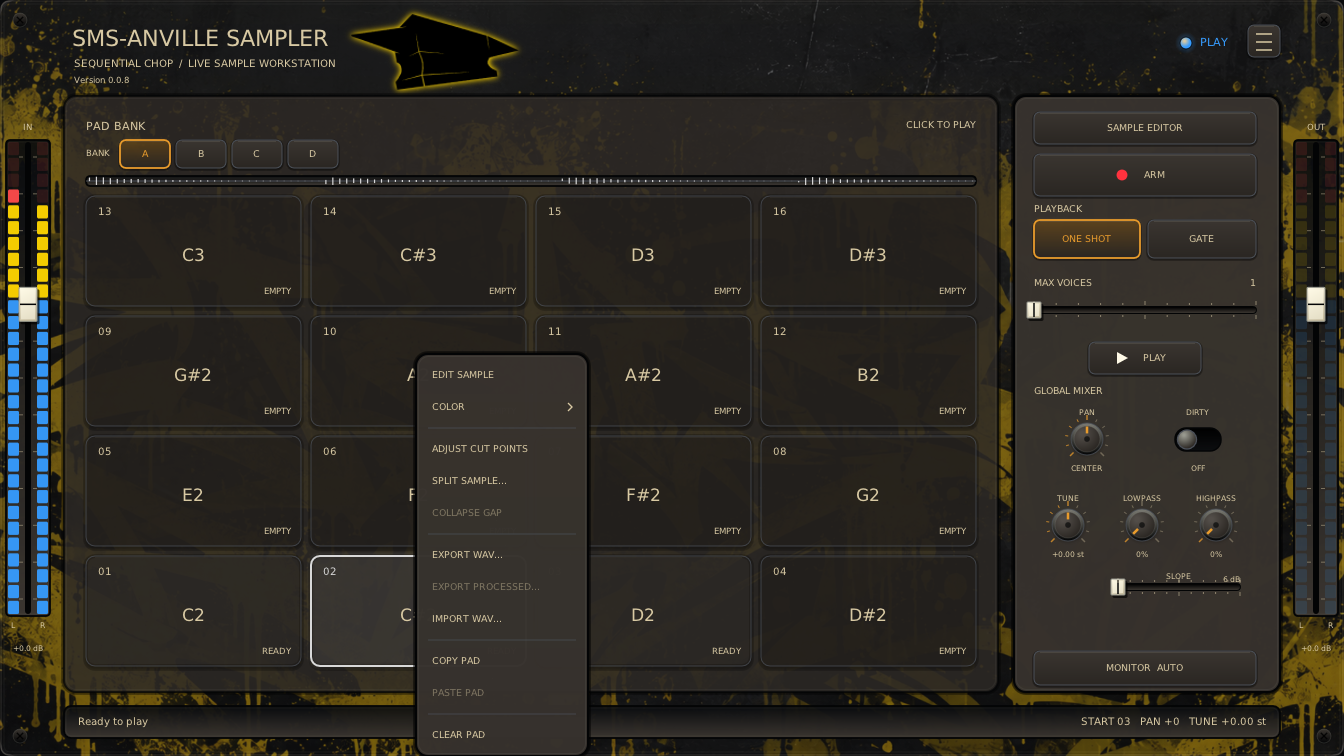
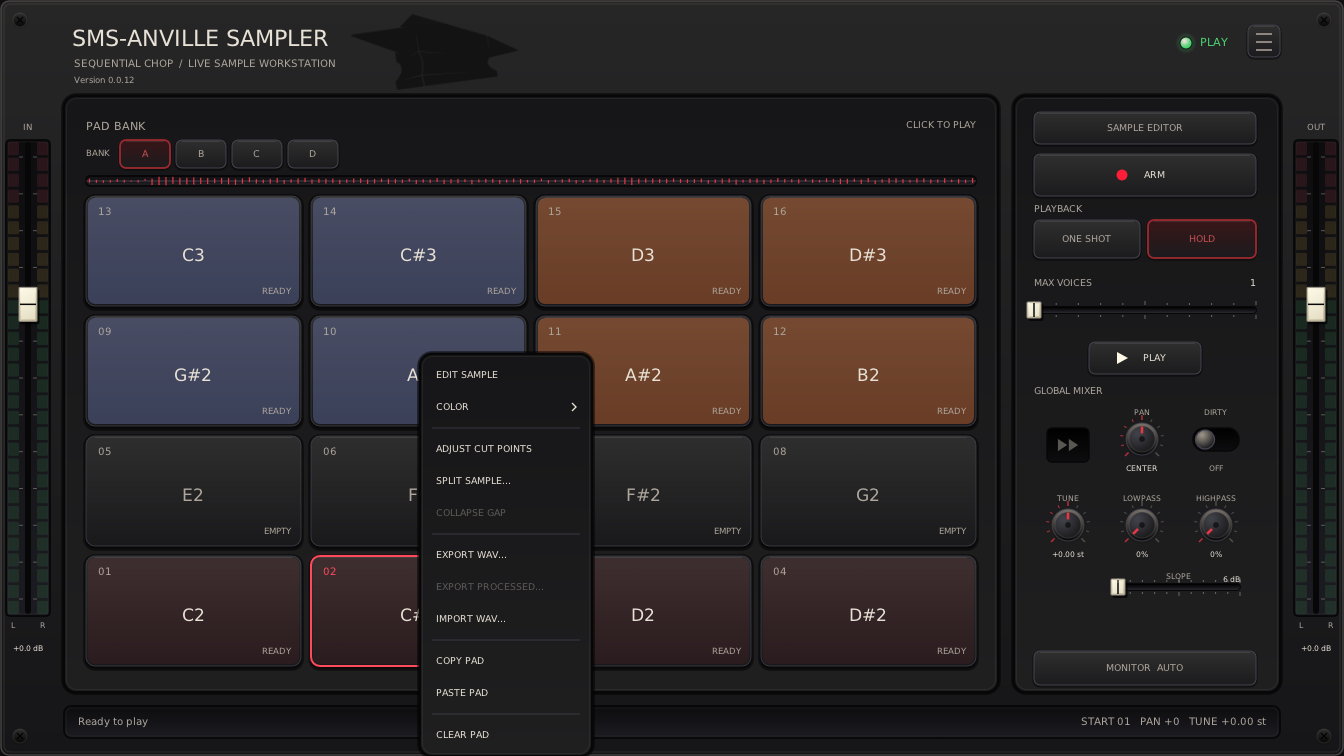
docs: refresh plugin screenshots and bump version to 0.0.12

diff --git a/SMS-AnvilleSampler/README.md b/SMS-AnvilleSampler/README.md
@@ -2,146 +2,149 @@
 
 _A live stereo chopping sampler for Linux._
 
-> Special thanks to **Manolo Anville** ([@ManoloAnville](https://github.com/ManoloAnville)) for collaboration.
+> Thanks to **Manolo Anville** ([@ManoloAnville](https://github.com/ManoloAnville)) for collaboration.
 
-![SMS-Anville Sampler interface](Docs/SMS-AnvilleSampler-v0.0.8.png)
+| Default Skin | Finnish Dream | Anville Graffiti |
+| --- | --- | --- |
+| [<img src="Docs/main-view.png" width="672" alt="Default Skin">](Docs/main-view.png) | [<img src="Docs/main-view-finnish-dream.png" width="224" alt="Finnish Dream">](Docs/main-view-finnish-dream.png) | [<img src="Docs/main-view-anville-graffiti.png" width="224" alt="Anville Graffiti">](Docs/main-view-anville-graffiti.png) |
 
+Captures: v0.0.12.
 
-**VST3 is preferred:** faster GUI loading and more human testing. LV2 is mostly
+**VST3 is preferred** for faster GUI loading and human testing. LV2 is mostly
 AI-tested; CLAP is untested.
 
 Tested: **REAPER**, **Ardour**, **Carla**.
 
-- Control with any MIDI controller.
-- Capture/chop input or load samples into pads.
+- MIDI control; capture/chop input or load samples into pads.
 - Waveform editing and splitting.
-- Pad/global mixer/FX: per-pad Forward/Reverse, Gain, Pan, Dirty, Tune (Varispeed), and Lowpass/Highpass with 6/12/24 dB slopes; independent monitor/playback levels.
-- Sample specific amplitude envelope; Attack, Decay, Sustain, Release.
-- Layouts: 2x4, 3x4, or 4x4 pads; four shared/unique MIDI banks; pad colors.
-- VST3 presets store samples/settings across supported DAWs: Ardour presets also
-  load in REAPER and vice versa. Carla does not support them.
-- Skins? **Yes!** - Create your own!
+- Pad/global mixer and FX: per-pad Forward/Reverse, Gain, Pan, Dirty, Tune (Varispeed), Lowpass/Highpass (6/12/24 dB/octave), independent monitor/playback levels.
+- Per-sample ADSR.
+- 2x4, 3x4, or 4x4 pads; four shared/unique MIDI banks; pad colors.
+- VST3 presets transfer samples/settings between Ardour and REAPER; Carla lacks support.
+- Create [custom skins](Docs/SKINS.md).
 
-> Versions 1.0.0+ are not backwards compatible with alpha releases (v0.0.1-v0.9.9). Alpha releases have been removed from GitHub releases to avoid confusion.
+> v1.0.0+ is incompatible with alpha sessions (v0.0.1–v0.9.9). Alpha releases were removed from GitHub to avoid confusion.
 
 ## Basic Usage
 
-1. Insert **SMS-Anville Sampler** as an instrument on a REAPER track receiving stereo audio/MIDI, or an Ardour MIDI track with stereo input sidechain for capture. Rescan after upgrading if listed as FX.
+1. Insert as an instrument on a REAPER track receiving stereo audio/MIDI, or an
+   Ardour MIDI track with stereo input sidechain for capture. Rescan after
+   upgrades if listed as FX.
 
-2. Press **ARM** (red record circle) to arm; release it for PLAY.
-   Default indicators: red ARMED, green PLAY. Skins can recolor them.
-   The first empty visible pad is selected; click another while idle.
+2. Press **ARM** (red record circle) to arm; release for PLAY. Indicators are red
+   ARMED and green PLAY by default; skins can recolor them. The first empty visible pad is
+   selected; click another while idle.
 
-3. **The first MIDI note-on or Space press starts the slice.** Later taps close
+3. **Any MIDI note-on or Space press starts the first slice.** Later taps close
    the current slice and continue at the next pad.
-    > NOTE: **ANY** MIDI note-on (i.e. any pad of your controller) starts and chops.
 
 4. **FINALIZE** or releasing **ARM** keeps the open slice. **UNDO** discards the
-   open/last slice; **CLEAR** clears all banks after a confirmation click.
+   open/last slice; **CLEAR** clears banks after confirmation.
 
-5. Right-click a pad to edit, split, or adjust cuts with neighbours.
+5. Right-click a pad to edit, split, or adjust neighbouring cuts.
 
 ![ARM capture view](Docs/arm-view.png)
 
 ![Context menu](Docs/context-menu.png)
 
 
-Hamburger: **PAD LAYOUT**, **BANK MODE**, **SKIN**, then **LINKS**. **Online Help** opens this
-guide at the release tag or development `main`. **Report Issue** opens the
-project's issues page.
+Hamburger: **PAD LAYOUT**, **BANK MODE**, **SKIN**, **LINKS**. Online Help opens this
+guide; Report Issue opens the project issues.
 
-Select **All Banks** (unique notes, default) for gapless notes or **Selected Bank**
-(shared notes) to reuse controller notes in the active bank. All Banks limits
-the base note to 64.
+**All Banks** (default) uses unique notes for gapless play; **Selected Bank** shares
+notes within the active bank. All Banks base note is limited to 64.
 
-Layouts match your controller and preserve samples.
+Layouts preserve samples.
 
 ![Hamburger menu](Docs/hamburger-menu.png)
 
 **SAMPLE EDITOR** opens waveform, ADSR, and pad mixing; **MAIN VIEW** returns. See the
-[mixing guide](Docs/MIXING.md). The selection button cycles through **Play on
-Select**, **Loop on Select**, and Off (unpressed **Play on Select**). Play auditions
-the selected sample once; Loop repeats its Start/End region after the mouse is
-released, repeating ADSR each pass with live edits. Editor modes are independent
-of the main playback mode.
-Changing selection replaces the audition; turning it off or leaving the editor
-stops it. **Play/Stop** plays the selected occupied pad when idle or immediately cuts all
-playing samples. With Loop on Select enabled, editor Play/Stop and Space also start a loop.
-Play/Stop shows triangle/square icons. ARM hides the global mixer.
-The edge faders remain visible: **IN** controls monitoring, **OUT** controls
-samples/previews.
+[mixing guide](Docs/MIXING.md). The selection button cycles **Play on Select**,
+**Loop on Select**, and Off (unpressed **Play on Select**). Play auditions once; Loop repeats Start/End after
+release, restarting ADSR each pass with live edits. These modes are independent
+of main playback. Selection changes replace auditions; disabling or leaving stops
+auditioning. **Play/Stop** auditions the selected occupied pad when idle or cuts all
+samples. With Loop on Select, it and Space loop. ARM hides the global mixer;
+edge faders stay visible. **IN** monitors and **OUT** controls samples and previews.
 
-**Ctrl + wheel** zooms the waveform; **Shift + wheel** scrolls. The left zoom
-control and window box below provide drag alternatives. Changing pads resets
-the view.
+**Ctrl + wheel** zooms; **Shift + wheel** scrolls. The left zoom control and
+window box provide drag alternatives. Changing pads resets the view.
 
-![Sample Editor with a shaped amplitude envelope](Docs/sample-editor.png)
+| Default Skin | Finnish Dream | Anville Graffiti |
+| --- | --- | --- |
+| [<img src="Docs/sample-editor.png" width="672" alt="Default Skin">](Docs/sample-editor.png) | [<img src="Docs/sample-editor-finnish-dream.png" width="224" alt="Finnish Dream">](Docs/sample-editor-finnish-dream.png) | [<img src="Docs/sample-editor-anville-graffiti.png" width="224" alt="Anville Graffiti">](Docs/sample-editor-anville-graffiti.png) |
 
 Right-click a middle pad for **Adjust cut points**. See the
 [cut-point guide](Docs/CHOP-EDITOR.md).
 
-![Adjust Cut Points view with three slices](Docs/adjust-cut-points.png)
+| Default Skin | Finnish Dream | Anville Graffiti |
+| --- | --- | --- |
+| [<img src="Docs/adjust-cut-points.png" width="672" alt="Default Skin">](Docs/adjust-cut-points.png) | [<img src="Docs/adjust-cut-points-finnish-dream.png" width="224" alt="Finnish Dream">](Docs/adjust-cut-points-finnish-dream.png) | [<img src="Docs/adjust-cut-points-anville-graffiti.png" width="224" alt="Anville Graffiti">](Docs/adjust-cut-points-anville-graffiti.png) |
 
 Right-click for **Split Sample**; following samples shift right without being overwritten.
 
-![Split Sample view with two proposed slices](Docs/split-sample.png)
+| Default Skin | Finnish Dream | Anville Graffiti |
+| --- | --- | --- |
+| [<img src="Docs/split-sample.png" width="672" alt="Default Skin">](Docs/split-sample.png) | [<img src="Docs/split-sample-finnish-dream.png" width="224" alt="Finnish Dream">](Docs/split-sample-finnish-dream.png) | [<img src="Docs/split-sample-anville-graffiti.png" width="224" alt="Anville Graffiti">](Docs/split-sample-anville-graffiti.png) |
 
 ### General Controls
 
 - Drag/wheel knobs and sliders.
-- **Shift** gives 10× knob precision; **Ctrl** steps e.g. Gain/Volume 1 dB, Pan 10%, and Tune one semitone.
-- Double-click values for exact entry.
-- Double/middle-click knobs, ADSR sliders, or edge faders to reset.
-- The wheel also adjusts ADSR, Start/End, and cut points.
-- Click the plug-in for keyboard focus. **Space** plays/stops in
-  PLAY and Sample Editor, or starts/chops capture in ARM. Holding Space does not
-  repeat. Menus, file dialogs, numeric entry, and cut-point views suppress it.
-  The plug-in consumes Space when delivered; a DAW that intercepts keyboard
-  shortcuts first may require its option to send keys to the plug-in.
+- **Shift** gives 10× knob precision; **Ctrl** steps Gain/Volume 1 dB, Pan 10%, Tune one semitone.
+- Double-click values to enter exact values; double/middle-click knobs, ADSR, or
+  edge faders to reset.
+- The wheel adjusts ADSR, Start/End, and cuts.
+- Click the plug-in for keyboard focus. **Space** plays/stops in PLAY/editor or
+  starts/chops ARM capture; holding does not repeat. Menus, dialogs, numeric entry,
+  and cut-point views suppress it. The plug-in consumes delivered Space; if the
+  DAW intercepts it first, enable sending keys to the plug-in.
+
+## Other controls
+
+- Sample memory: ~8 minutes.
+
+- Monitor cycles Off, On, and Auto (on when ARMed).
+
+- Max Voices limits simultaneous pads; a new trigger stops the oldest at
+capacity. Set it to one for monophonic playback.
+
+- **Hold** loops Start/End while its MIDI note or mouse press is held. Release
+starts the ADSR fade; looping continues until it ends. ARM stops Hold; **One Shot**
+ignores note-off.
+
+- Pre-roll moves boundaries earlier for late taps; Fixed mode records one fixed
+length slice per note-on.
+
+- New sessions start with Auto monitoring, one voice, Play on Select, and
+6 dB/octave filter slopes.
+
+- Pad right-click: copy, paste, import, export, clear, split, collapse gaps.
+  Split/Collapse Gap stay within the active bank; copies can cross banks.
+
+- Right-click a pad for **Color**; tint persists when empty.
+
+- See [WAV files](Docs/WAV-FILES.md) for import formats and Linux requirements.
+
+- DAW projects store all banks as 16-bit stereo.
+
+- Stereo LEDs show raw input/final output.
+
+## Skins
 
 Default uses no skin. **Hamburger → Skin** offers bundled **Anville Graffiti**
 and **Finnish Dream**, remembering your choice. See [skins](Docs/SKINS.md).
 
-## Other controls
-
-- Sample memory: about eight minutes.
-
-- Monitor cycles through Off, On, and Auto; Auto is On when ARMed and Off otherwise.
-
-- Max Voices limits simultaneous pads. At capacity, a new trigger stops the
-oldest voice; set it to one for monophonic playback.
-
-- **Hold** loops a pad's Start/End region while its MIDI note or mouse press is
-held. Release starts the pad's ADSR release; the region continues looping until
-the fade ends. ARM stops Hold loops. **One Shot** ignores note-off.
-
-- Pre-roll moves boundaries slightly earlier to compensate for late taps. Fixed
-mode records one fixed-length slice per note-on.
-
-- New sessions start with Auto monitoring, one voice, Play on Select enabled,
-and 6 dB/octave filter slopes.
-
-- Right-click pads to copy, paste, import, export, clear, split, or collapse a gap.
-  Split Sample and Collapse Gap stay within the active bank. A copied pad can be
-  pasted into another bank.
-
-- Right-click a pad for **Color**; its tint is saved, even when empty.
-
-- See [WAV files](Docs/WAV-FILES.md) for supported import formats and Linux requirements.
-
-- DAW projects store all banks as 16-bit stereo state.
-
-- Stereo LED rails around the faders show raw input and final output.
-
-
+| Default Skin | Finnish Dream | Anville Graffiti |
+| --- | --- | --- |
+| [<img src="Docs/main-view.png" width="224" alt="Default Skin">](Docs/main-view.png) | [<img src="Docs/main-view-finnish-dream.png" width="224" alt="Finnish Dream">](Docs/main-view-finnish-dream.png) | [<img src="Docs/main-view-anville-graffiti.png" width="224" alt="Anville Graffiti">](Docs/main-view-anville-graffiti.png) |
 
 ## Vision, Contributions, License
 
 Development/testing: [Contributing](../CONTRIBUTING.md).
 
-Licensed under [MIT](LICENSE).
+License: [MIT](LICENSE).
 
-See [Docs/VISION.md](Docs/VISION.md) for product direction and feature scope.
+Product direction: [Vision](Docs/VISION.md).
 
 ## Build
 

diff --git a/Docs/AI/DOC-IMAGES.md b/Docs/AI/DOC-IMAGES.md
@@ -1,0 +1,50 @@
+# Documentation images
+
+Use real plugin captures for documentation. Build the desired version using
+[Development](DEVELOPMENT.md), then launch that bundle using the host/UI tools in
+[Testing](TESTING.md). Reopen the host after rebuilding; verify the version in
+its header before capturing.
+
+## Capture inputs
+
+Use the 4×4 pad layout and the same window size for every capture, normally
+1344 × 756. Populate pads with related slices. Use colours sparingly to mark
+two neighbouring groups, such as blue and orange 2×2 blocks; leave other
+pads untinted. Select an untinted pad in Main View so selection does not obscure
+a group colour. Show playback in Main View, a shaped envelope and edited region
+in Sample Editor, and meaningful proposed boundaries in the cut views.
+
+Within each view, keep audio, settings, selection, zoom and pending cuts unchanged
+while switching appearances. Playback cursors and meters can naturally differ.
+Close menus and dialogs and move the pointer away from controls before capturing
+with `screenshot-window`. A held pad may remain pressed for Main View playback.
+Capture only the plugin content, without host decorations or the desktop.
+Inspect every capture for clipping, missing waveforms, overlays and incorrect skins.
+
+## Assets and README layout
+
+Store twelve separate, full-resolution PNGs in `SMS-AnvilleSampler/Docs`:
+
+| View | Default filename |
+| --- | --- |
+| Main View | `main-view.png` |
+| Sample Editor | `sample-editor.png` |
+| Split Sample | `split-sample.png` |
+| Adjust Cut Points | `adjust-cut-points.png` |
+
+For each view, add `-finnish-dream` and `-anville-graffiti` before `.png` for the
+other appearances. Basic Usage captures (`arm-view.png`, `context-menu.png`,
+`hamburger-menu.png`) always use the built-in appearance. Keep working captures
+under ignored build output.
+
+Both READMEs share the Main View captures. The plugin README also shows each
+editor in all three appearances. Markdown tables and linked HTML `img` elements
+label the built-in appearance **Default Skin** and show it prominently, with
+skin previews at one-third its display width.
+The Skins section uses three equally sized, separate Main View images. Every
+image links to its original PNG; do not bake layouts, labels or scaling into assets.
+
+Check every image/link target, including HTML `src` attributes, and inspect the
+README layout. Update the capture-version caption. Run
+`python3 scripts/check_docs.py` and `git diff --check`; the checker validates
+Markdown link targets but does not inspect HTML image attributes or rendering.

diff --git a/README.md b/README.md
@@ -9,10 +9,12 @@ Windows and macOS versions may follow later.
 
 ## Plugins
 
-- [SMS-Anville Sampler](SMS-AnvilleSampler/README.md) — live stereo chopping sampler
+### [SMS-Anville Sampler](SMS-AnvilleSampler/README.md) — live stereo chopping sampler
   for LV2 and VST3.
 
-![SMS-Anville Sampler interface](SMS-AnvilleSampler/Docs/SMS-AnvilleSampler-v0.0.8.png)
+| Default Skin | Finnish Dream | Anville Graffiti |
+| --- | --- | --- |
+| [<img src="SMS-AnvilleSampler/Docs/main-view.png" width="672" alt="Default Skin Main View">](SMS-AnvilleSampler/Docs/main-view.png) | [<img src="SMS-AnvilleSampler/Docs/main-view-finnish-dream.png" width="224" alt="Finnish Dream Main View">](SMS-AnvilleSampler/Docs/main-view-finnish-dream.png) | [<img src="SMS-AnvilleSampler/Docs/main-view-anville-graffiti.png" width="224" alt="Anville Graffiti Main View">](SMS-AnvilleSampler/Docs/main-view-anville-graffiti.png) |
 
 ## About the developer & this project
 > Hi,

diff --git a/Docs/AI/INDEX.md b/Docs/AI/INDEX.md
@@ -8,6 +8,7 @@ Read [AGENTS.md](../../AGENTS.md), then the relevant row.
 | Windows/macOS builds | [Platform builds](PLATFORM-BUILDS.md) | CI prerequisites, gaps and native-host acceptance |
 | Dev Container setup | [Development](DEVELOPMENT.md), [Testing](TESTING.md) | [Configuration](../../.devcontainer/devcontainer.json) |
 | Tests, LV2 discovery, host/UI checks | [Testing](TESTING.md) | [Tests](../../SMS-AnvilleSampler/tests/) |
+| Screenshots | [Images](DOC-IMAGES.md) | [Captures](../../SMS-AnvilleSampler/Docs/) |
 | Engine, state, UI | [Anville Sampler architecture](../../SMS-AnvilleSampler/Docs/ARCHITECTURE.md) | [Plugin source](../../SMS-AnvilleSampler/src/) |
 | Filter and Dirty implementation | [Mixing contract](MIXING.md) | [DSP](../../Common-Src/DSP/ColorEffects.hpp) |
 | Shared DSP, codecs, geometry | [Common-Src map](../../Common-Src/README.md) | [Common-Src](../../Common-Src/) |
